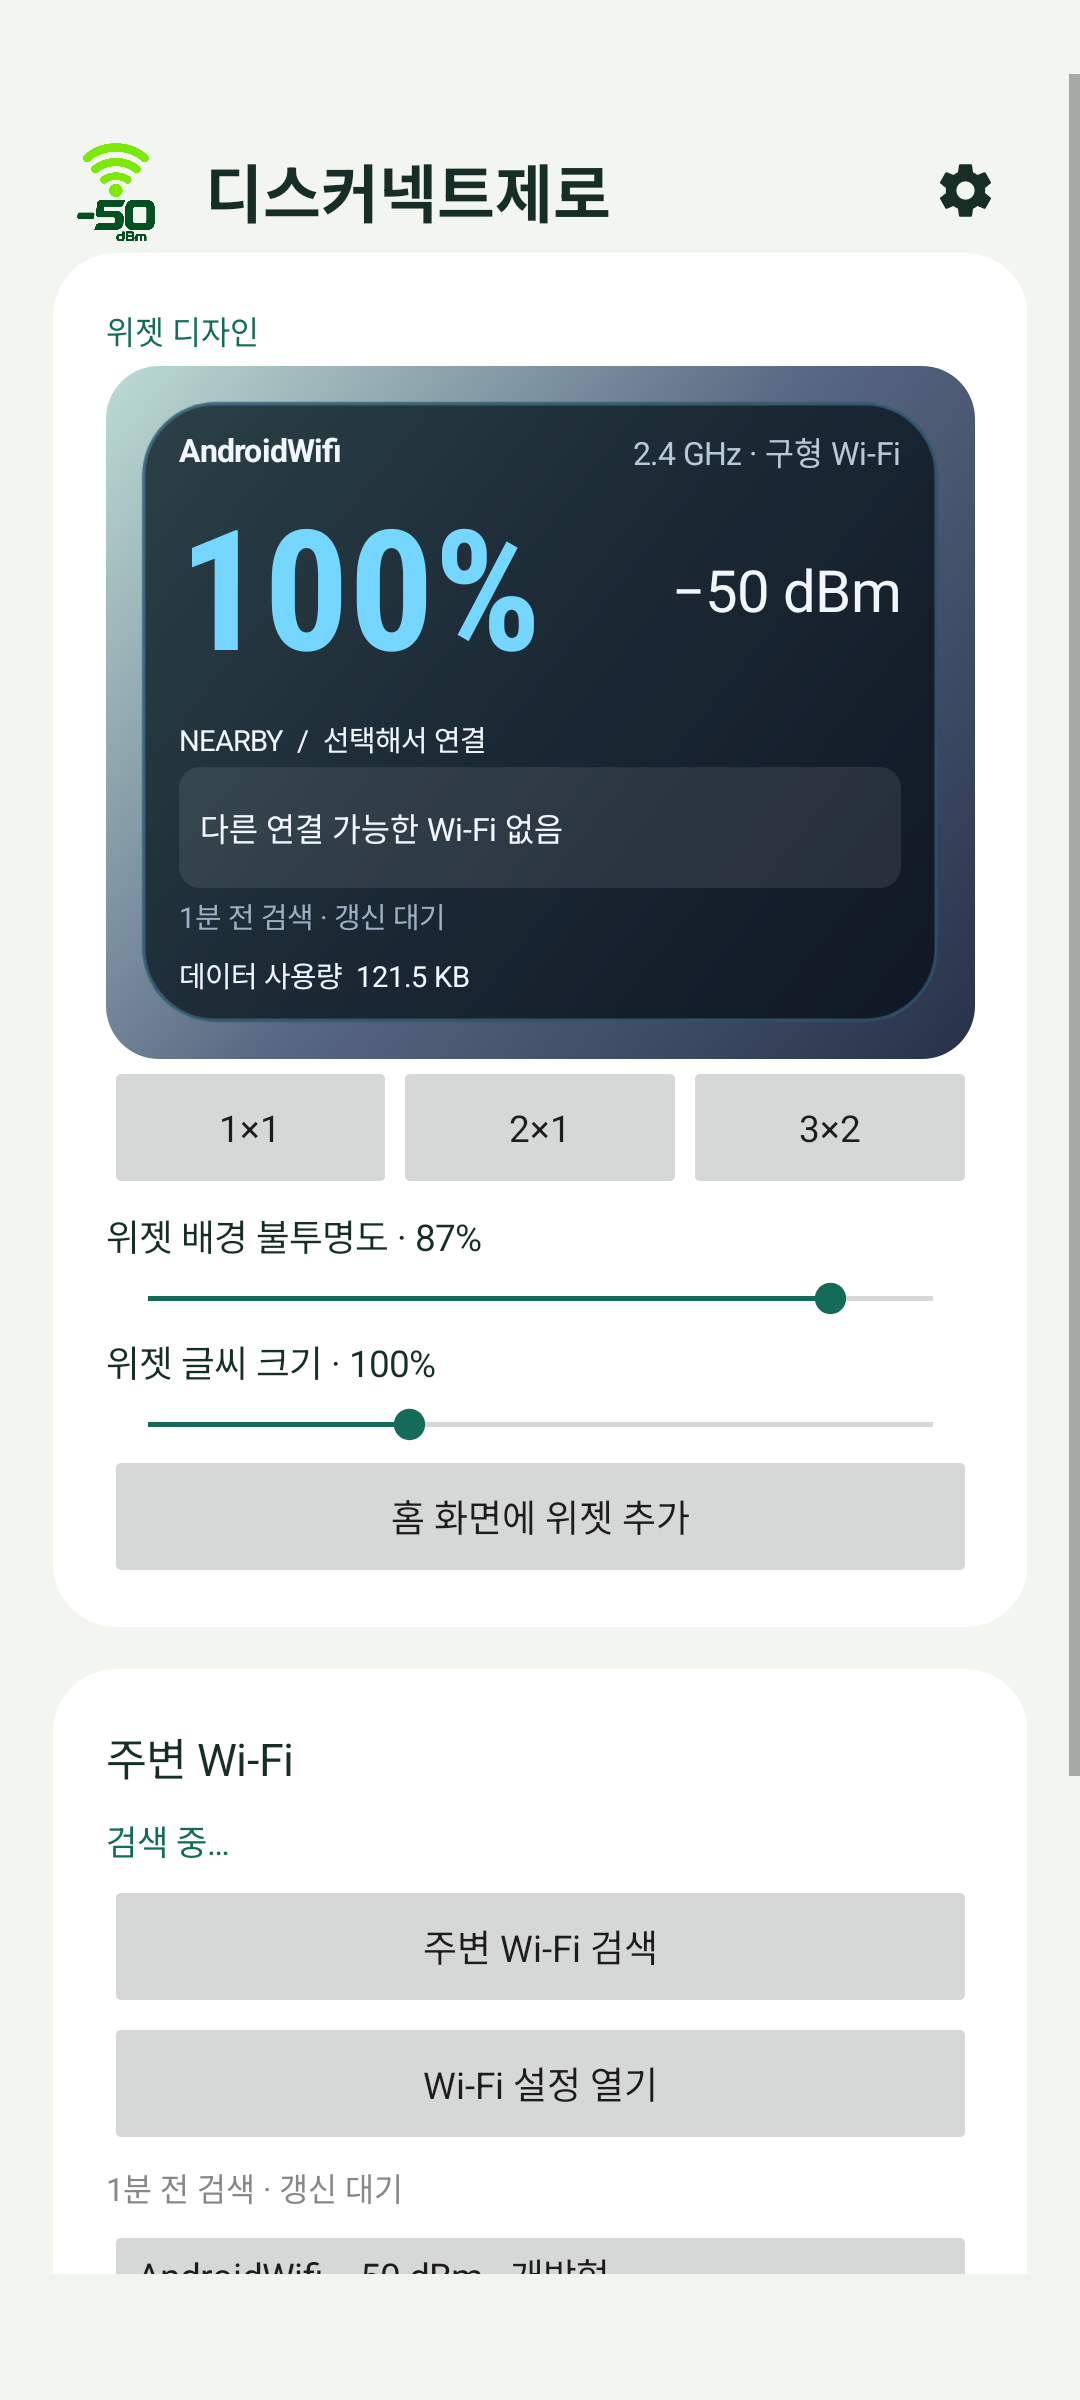
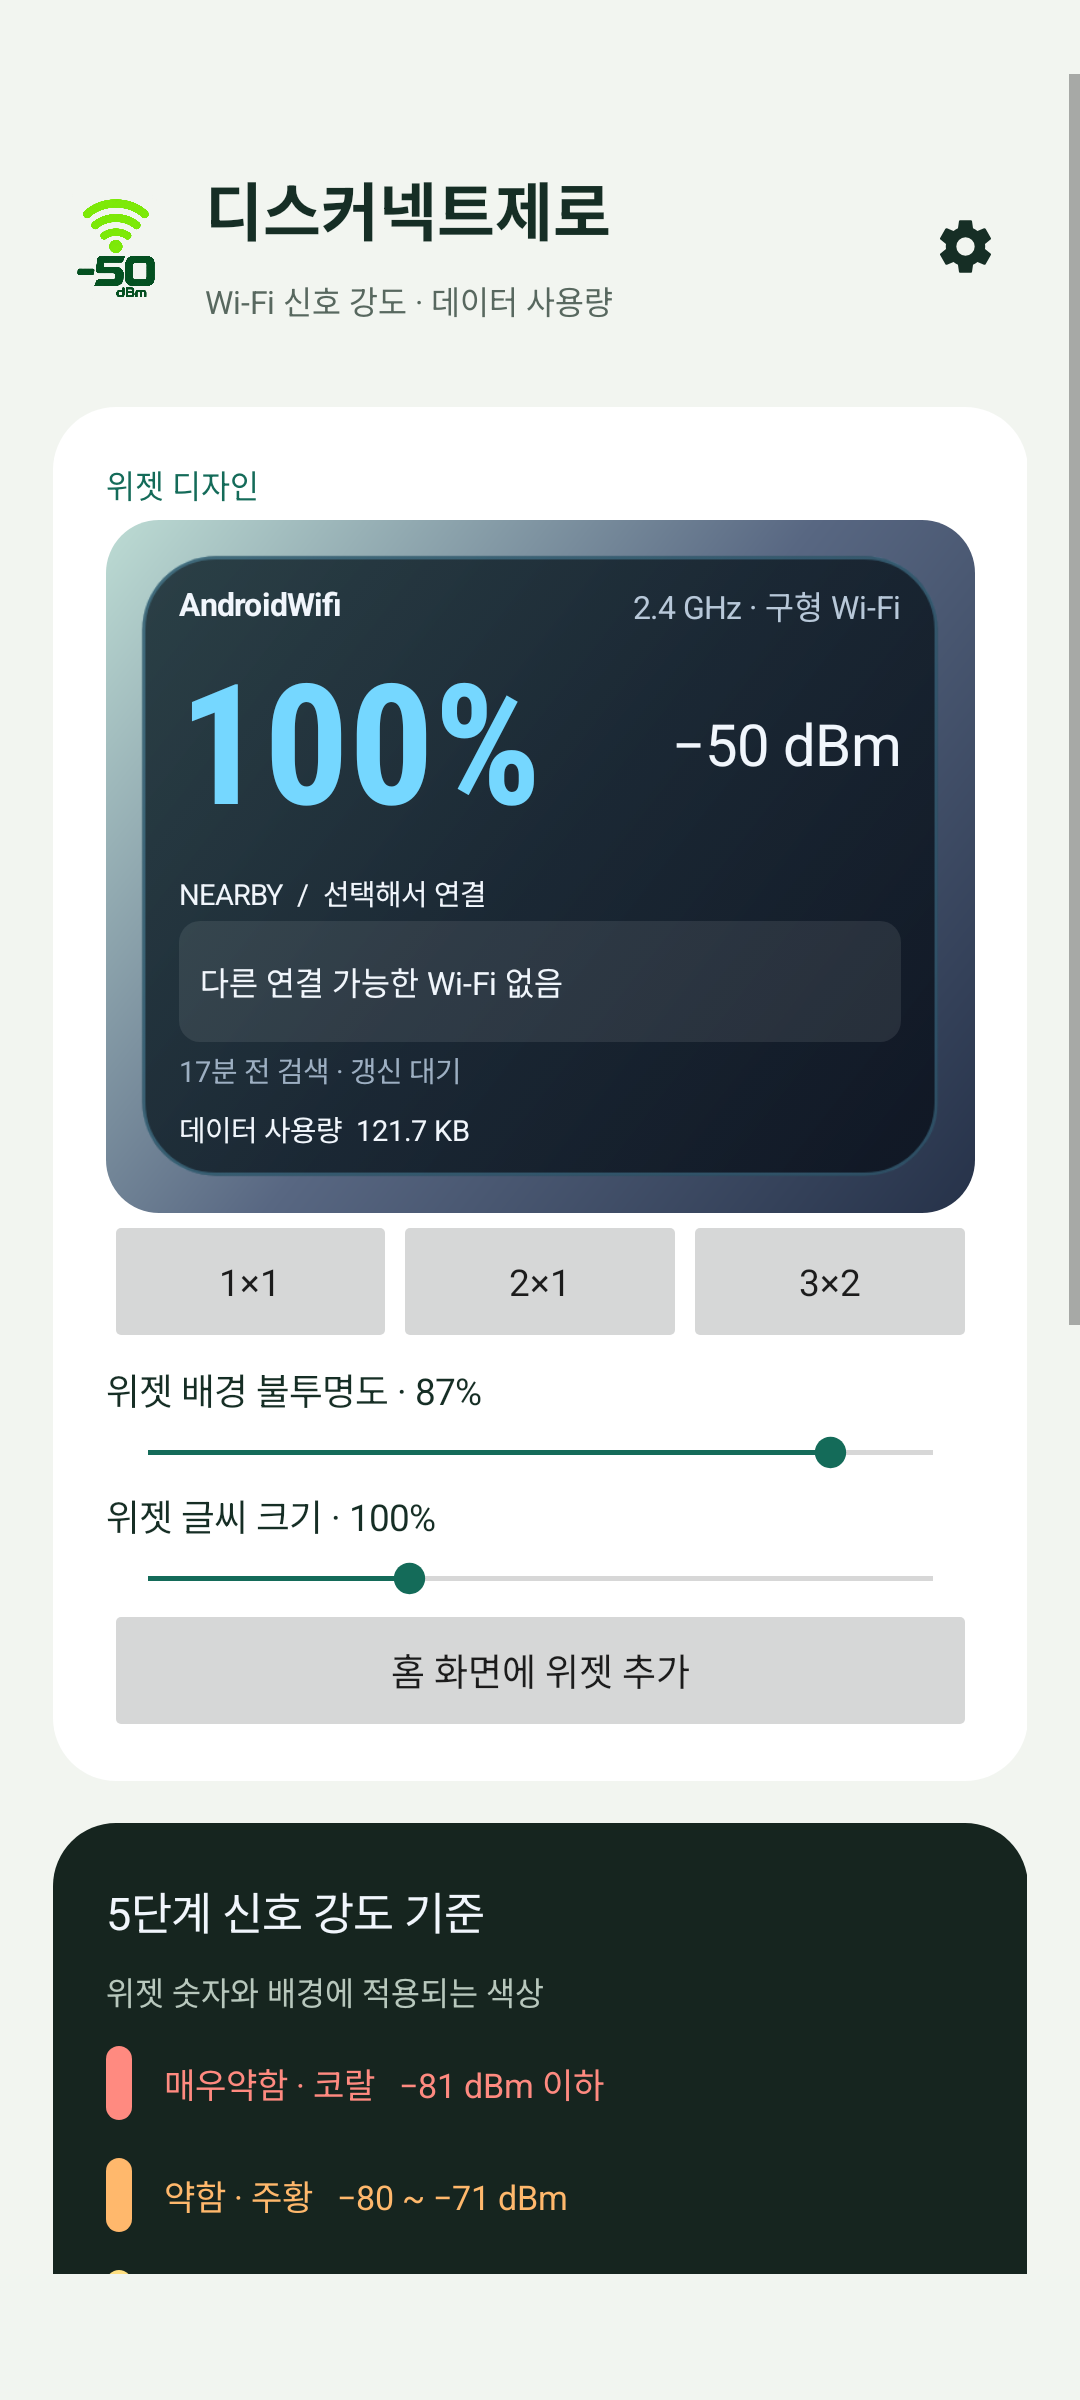
v1.0.5 화면 모드와 메인 안내 업데이트

diff --git a/VALIDATION.md b/VALIDATION.md
@@ -1,28 +1,27 @@
-# 디스커넥트제로 v1.0.4 검증 안내
+# 디스커넥트제로 v1.0.5 검증 안내
 
 ## 이번 배포에서 확인한 범위
 
-- 기존 설치본 위에 동일 서명의 v1.0.4 업데이트 설치 성공
-- release APK 빌드, 서명·버전 확인 및 Android lint 완료(오류 0, 보조 글꼴 크기·벡터 경로 경고 4건)
-- 실제 화면에서 톱니바퀴 → 설정 → 뒤로가기 이동 확인
-- 새 버전 존재 시 빨간 점 표시, 설정 열람 후 유지, 동일 버전으로 바뀌면 해제 확인
-- 다운로드 버튼이 업데이트 확인 버튼의 바로 다음에 배치됨을 확인
-- 변경사항이 기본 화면에 없고 버튼으로 열리는 팝업에만 간결하게 표시됨을 확인
-- 업데이트 알림을 누르면 설정 화면으로 직접 이동하고 버전 확인을 수행함을 확인
-- 기존 투명 아이콘 및 위젯 렌더링 확인
-- 실제 GitHub 공개 조회, 6시간 업데이트 작업 예약·해제, 현재·새 버전 변경사항 읽기 검사
-- 에뮬레이터 알림 권한 허용 상태에서 새 버전·테스트 알림, 중복 알림 방지 검사
-- APK에 검증용 앱이나 앱 구현 소스 ZIP을 포함하지 않음
+- 기존 설치본 위에 동일 서명의 v1.0.5 업데이트 설치 성공
+- release APK 빌드, 서명·버전 확인 및 Android lint 완료(오류 0, 기존 보조 글꼴 크기·벡터 경로 경고 4건)
+- API 35 에뮬레이터에서 라이트·다크 수동 선택과 선택값 유지 확인
+- 휴대폰 설정에 맞춤 선택 후 시스템 라이트 ↔ 다크 변경에 맞춰 화면이 자동 전환됨을 확인
+- 수동 모드를 선택했을 때 시스템 설정을 바꿔도 선택한 모드를 유지함을 확인
+- 설정에서 메인으로 돌아올 때 변경한 모드 적용, 다크 모드의 변경사항·Wi-Fi 연결 팝업 확인
+- 메인 상단 기능 요약과 아래 여백, 메인으로 옮긴 5단계 기준의 색상이 실제 신호 강도 색상과 같음을 확인
+- 톱니바퀴 → 설정 → 뒤로가기, 빨간 점 표시·유지·해제, 확인 바로 아래 다운로드 버튼, 변경사항 팝업, 알림 목적지 회귀 검사 통과
+- 라이트·다크 화면과 색상표 캡처를 눈으로 확인
+- 배포 APK에 검증용 앱이나 앱 구현 소스 ZIP을 포함하지 않음
 
-위젯 미리보기 이미지는 검증용 예시 네트워크를 표시한 것으로 실제 사용자 네트워크 정보가 아닙니다. 새 버전 알림 검사는 테스트용 버전 정보를 일시적으로 사용한 후 복원했으며, 테스트 릴리스를 GitHub에 게시하거나 다운로드하지 않았습니다.
+이미지는 에뮬레이터의 예시 네트워크와 데이터입니다. 테스트가 변경한 화면 모드·시스템 모드·업데이트 설정과 임시 버전 정보는 검사 후 복원했습니다. 테스트용 릴리스를 GitHub에 게시하거나 다운로드하지 않았습니다.
 
 ## 기존 검증을 유지하는 부분
 
-신호 강도 환산, Wi-Fi 보안 유형 분류, 버전 순서, 정식 릴리스 선택과 공식 APK 주소 검사 로직은 기존 검증을 통과한 구현을 유지합니다. SSID 읽기, 긴 이름·100/140% 글꼴의 위젯 표시와 현재 연결 항목 제외는 v1.0.3에서 검증한 구현을 유지합니다. 이번 배포에서는 메인·설정 화면과 업데이트 알림 흐름을 중심으로 확인했습니다.
+위젯 배치·주변 Wi-Fi 연결 후보 제외·신호 강도 환산·Wi-Fi 보안 유형 분류·공식 APK 주소 검사 구현은 유지합니다. 실제 GitHub 조회, 6시간 자동 확인 예약·해제와 새 버전·테스트 알림은 이전 배포에서 검증한 구현을 유지하며, 이번에는 화면 모드와 설정 이동을 중심으로 확인했습니다.
 
 ## 실제 기기 확인이 필요한 부분
 
-- Galaxy 모델·One UI 버전별 런처 아이콘 배경·마스크, 위젯 격자와 글꼴 크기
+- Galaxy 모델·One UI 버전별 화면 모드 전환, 접근성 글꼴, 런처 아이콘과 위젯 격자
 - 실제 AP 전환, 위치 권한·SSID 제한, 주변 검색 제한 및 절전 갱신
 - 재부팅 후 예약 실행, 6시간 이상 장시간 자동 확인·알림 수신
 - 통신사 데이터 집계와 Android 데이터 집계 차이
